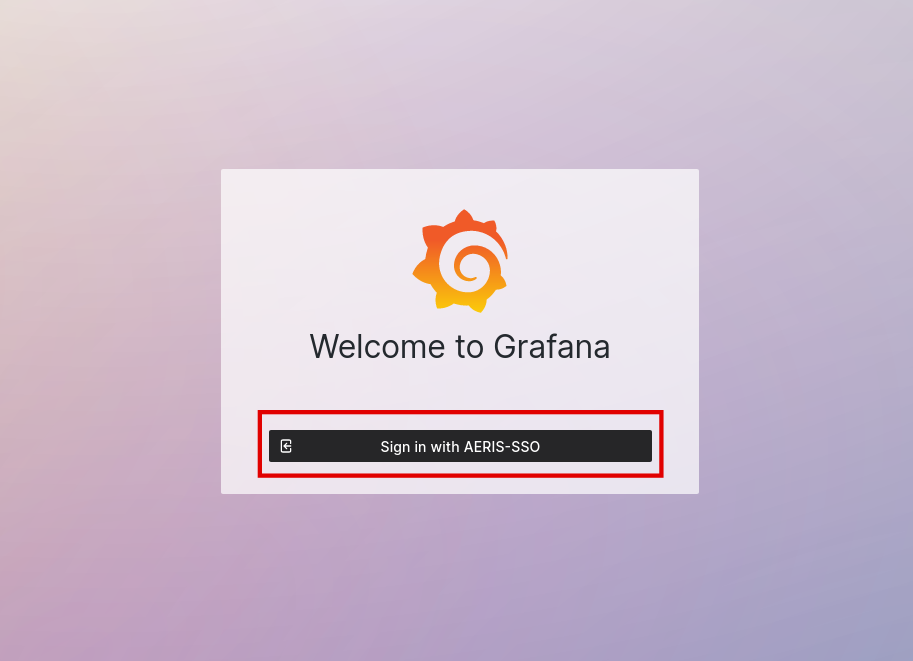
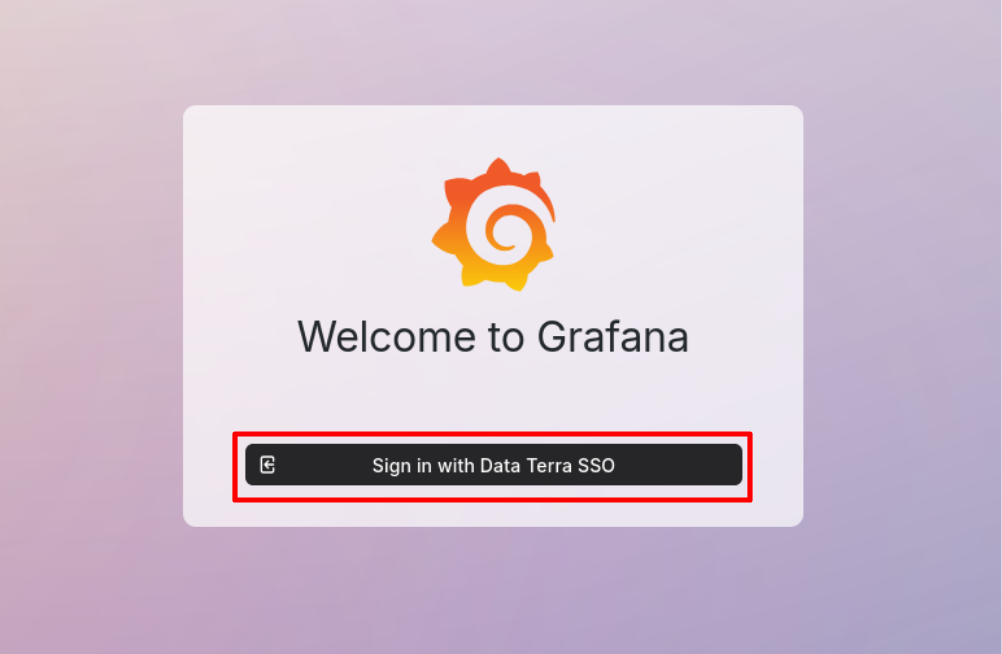
doc: update login to grafana

Changed region(s): [[0.184, 0.1529, 0.828, 0.8257]]

diff --git a/source/services/grafana-server/first-connection.md b/source/services/grafana-server/first-connection.md
@@ -12,7 +12,7 @@
 
 ## Choose your authentication method
 
-![grafana home](../../assets/services/grafana/grafana_aeris-sso.png){width=500 align=center}
+![grafana home](../../assets/services/grafana/grafana_data-terra-sso.png){width=500 align=center}
 
 You have 3 ways to authenticate:
 - [edugain](https://edugain.org/)
@@ -37,7 +37,20 @@ Edugain is a service that allows you to use your academic credentials to service
 ![grafana edugain](../../assets/services/grafana/grafana_edugain.png){width=500 align=center}
 
 
-### AERIS
+### DATA TERRA/GAIA DATA
+
+This is the replacement of AERIS method.
+
+If you are unable to use any of the above methods, you can create an AERIS account. Click on the **register** link (green border).
+
+![grafana home](../../assets/services/grafana/grafana_data-terra-sso.png){width=500 align=center}
+
+You will just have to fill the form and validate your email address.
+
+
+### AERIS (not available anymore)
+
+This interface is replaced by the Data Terra/Gaia Data SSO.
 
 If you are unable to use any of the above methods, you can create an AERIS account. Click on the **register** link (green border).
 
